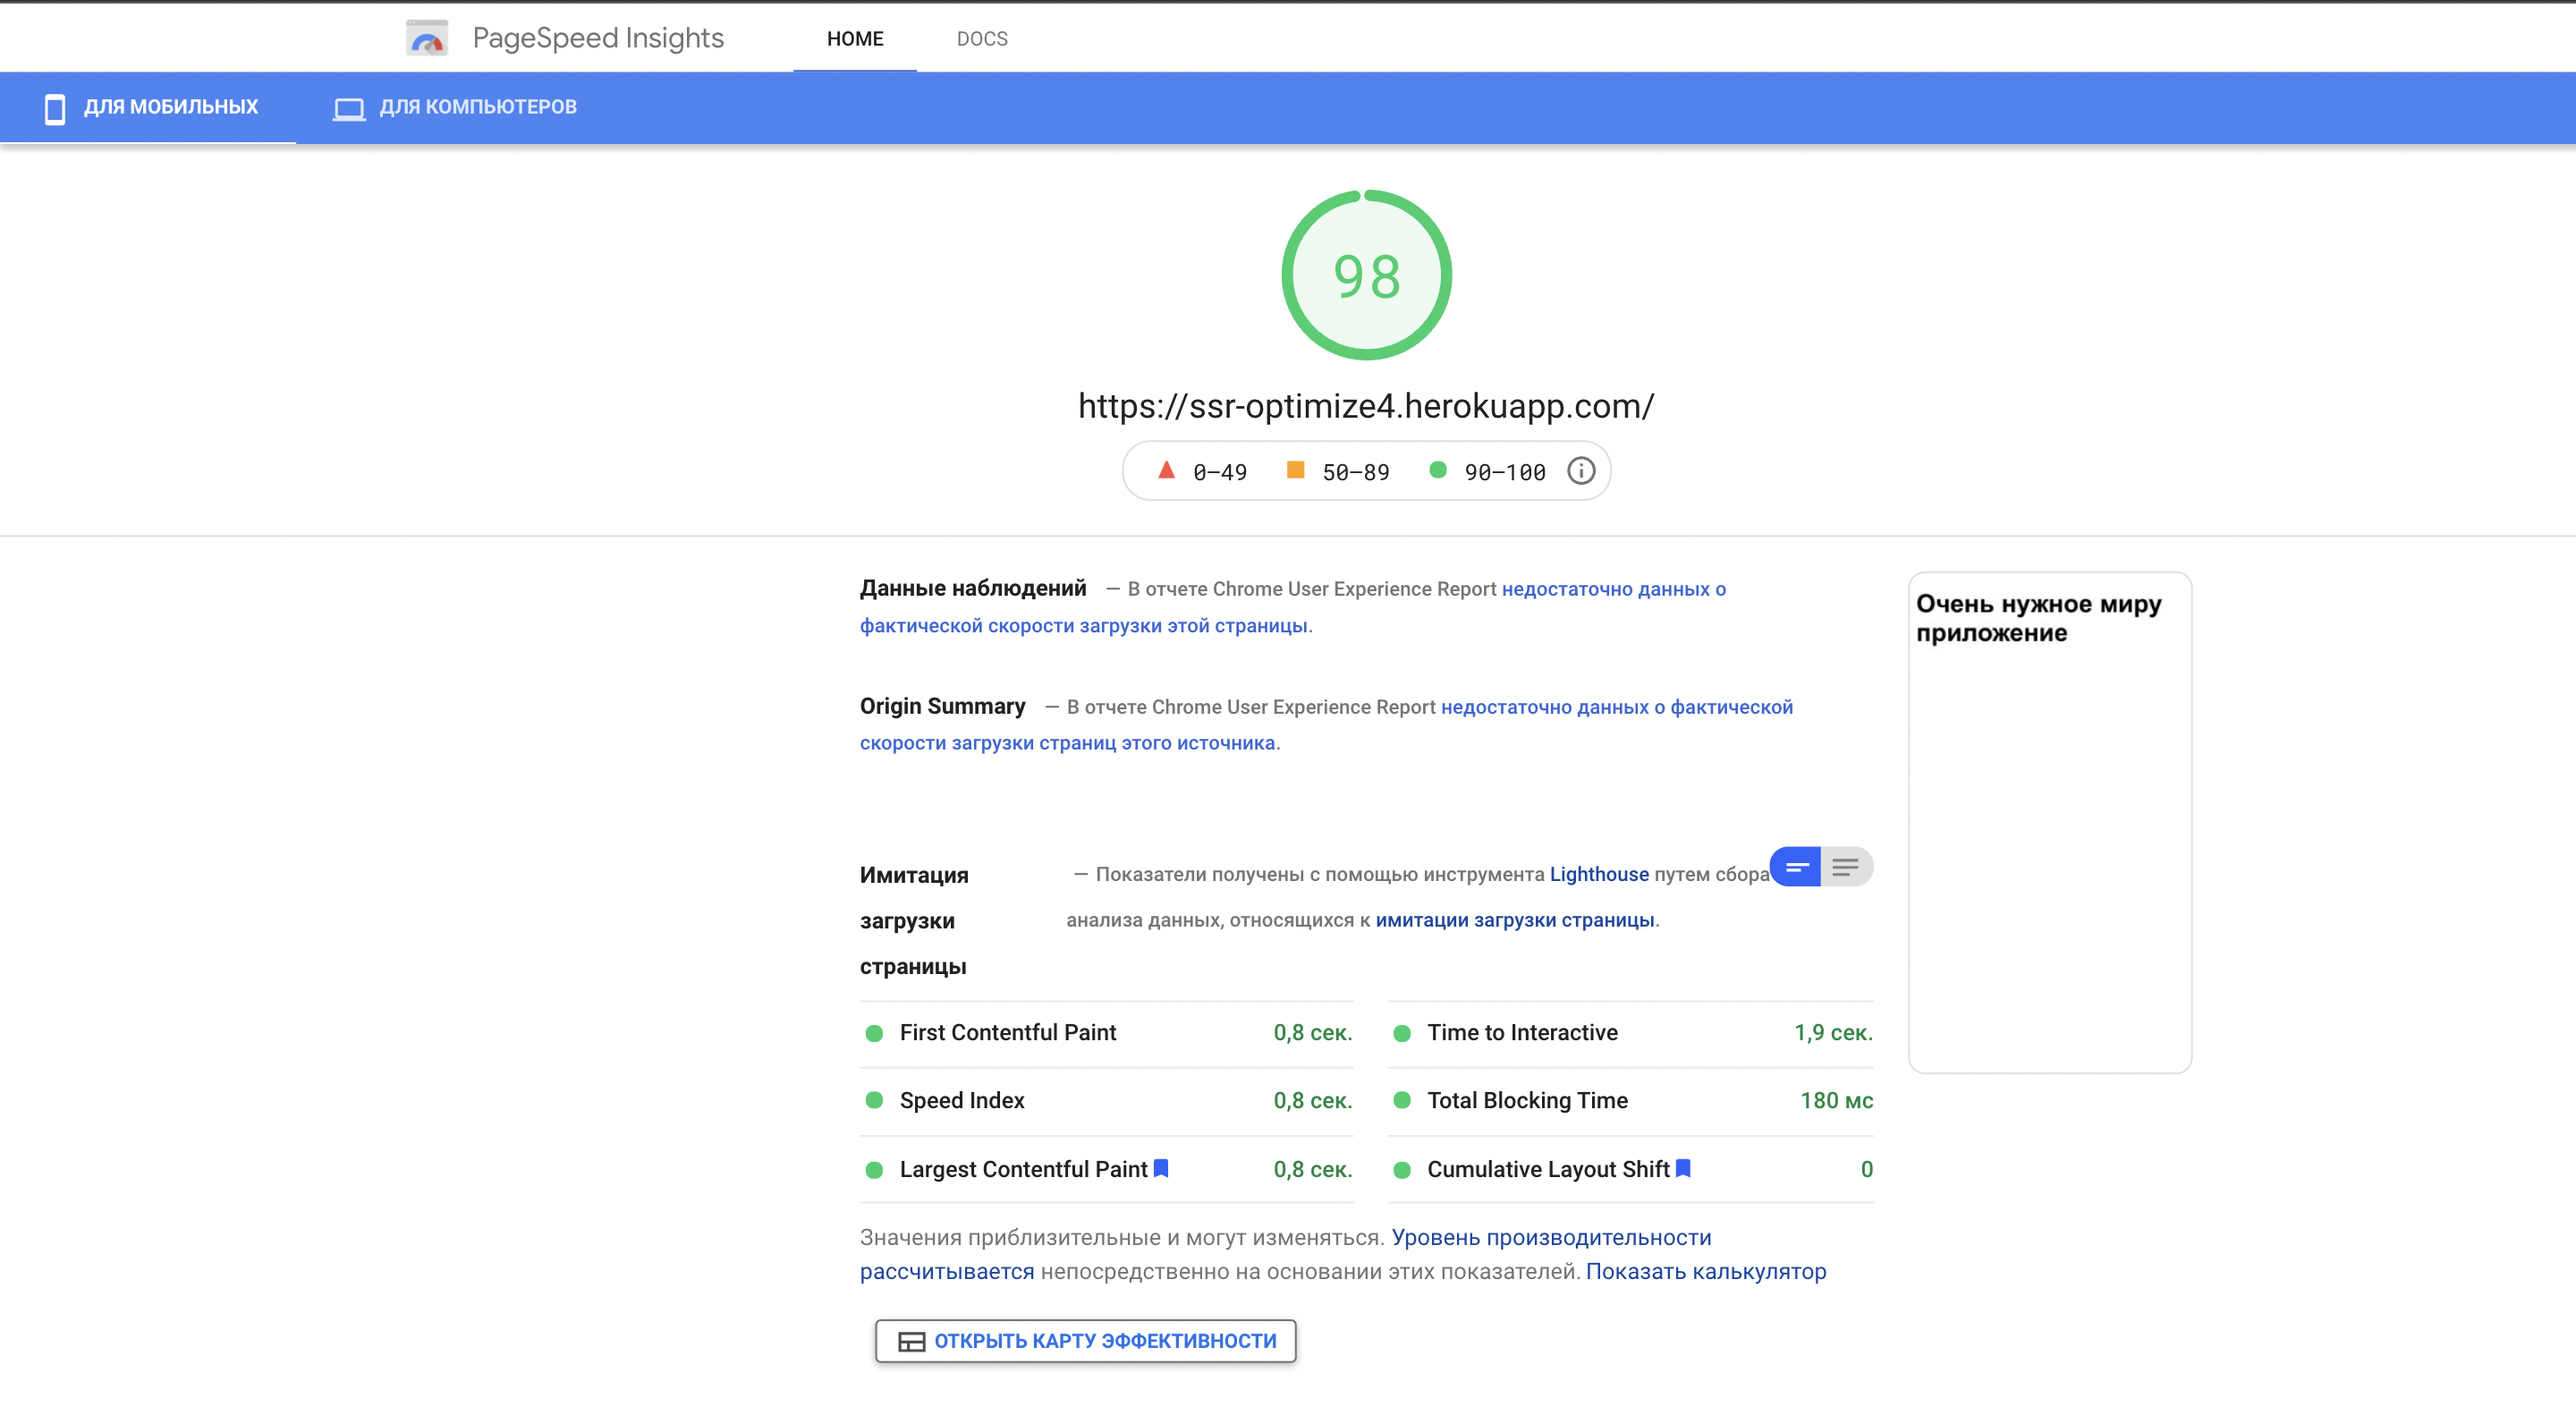
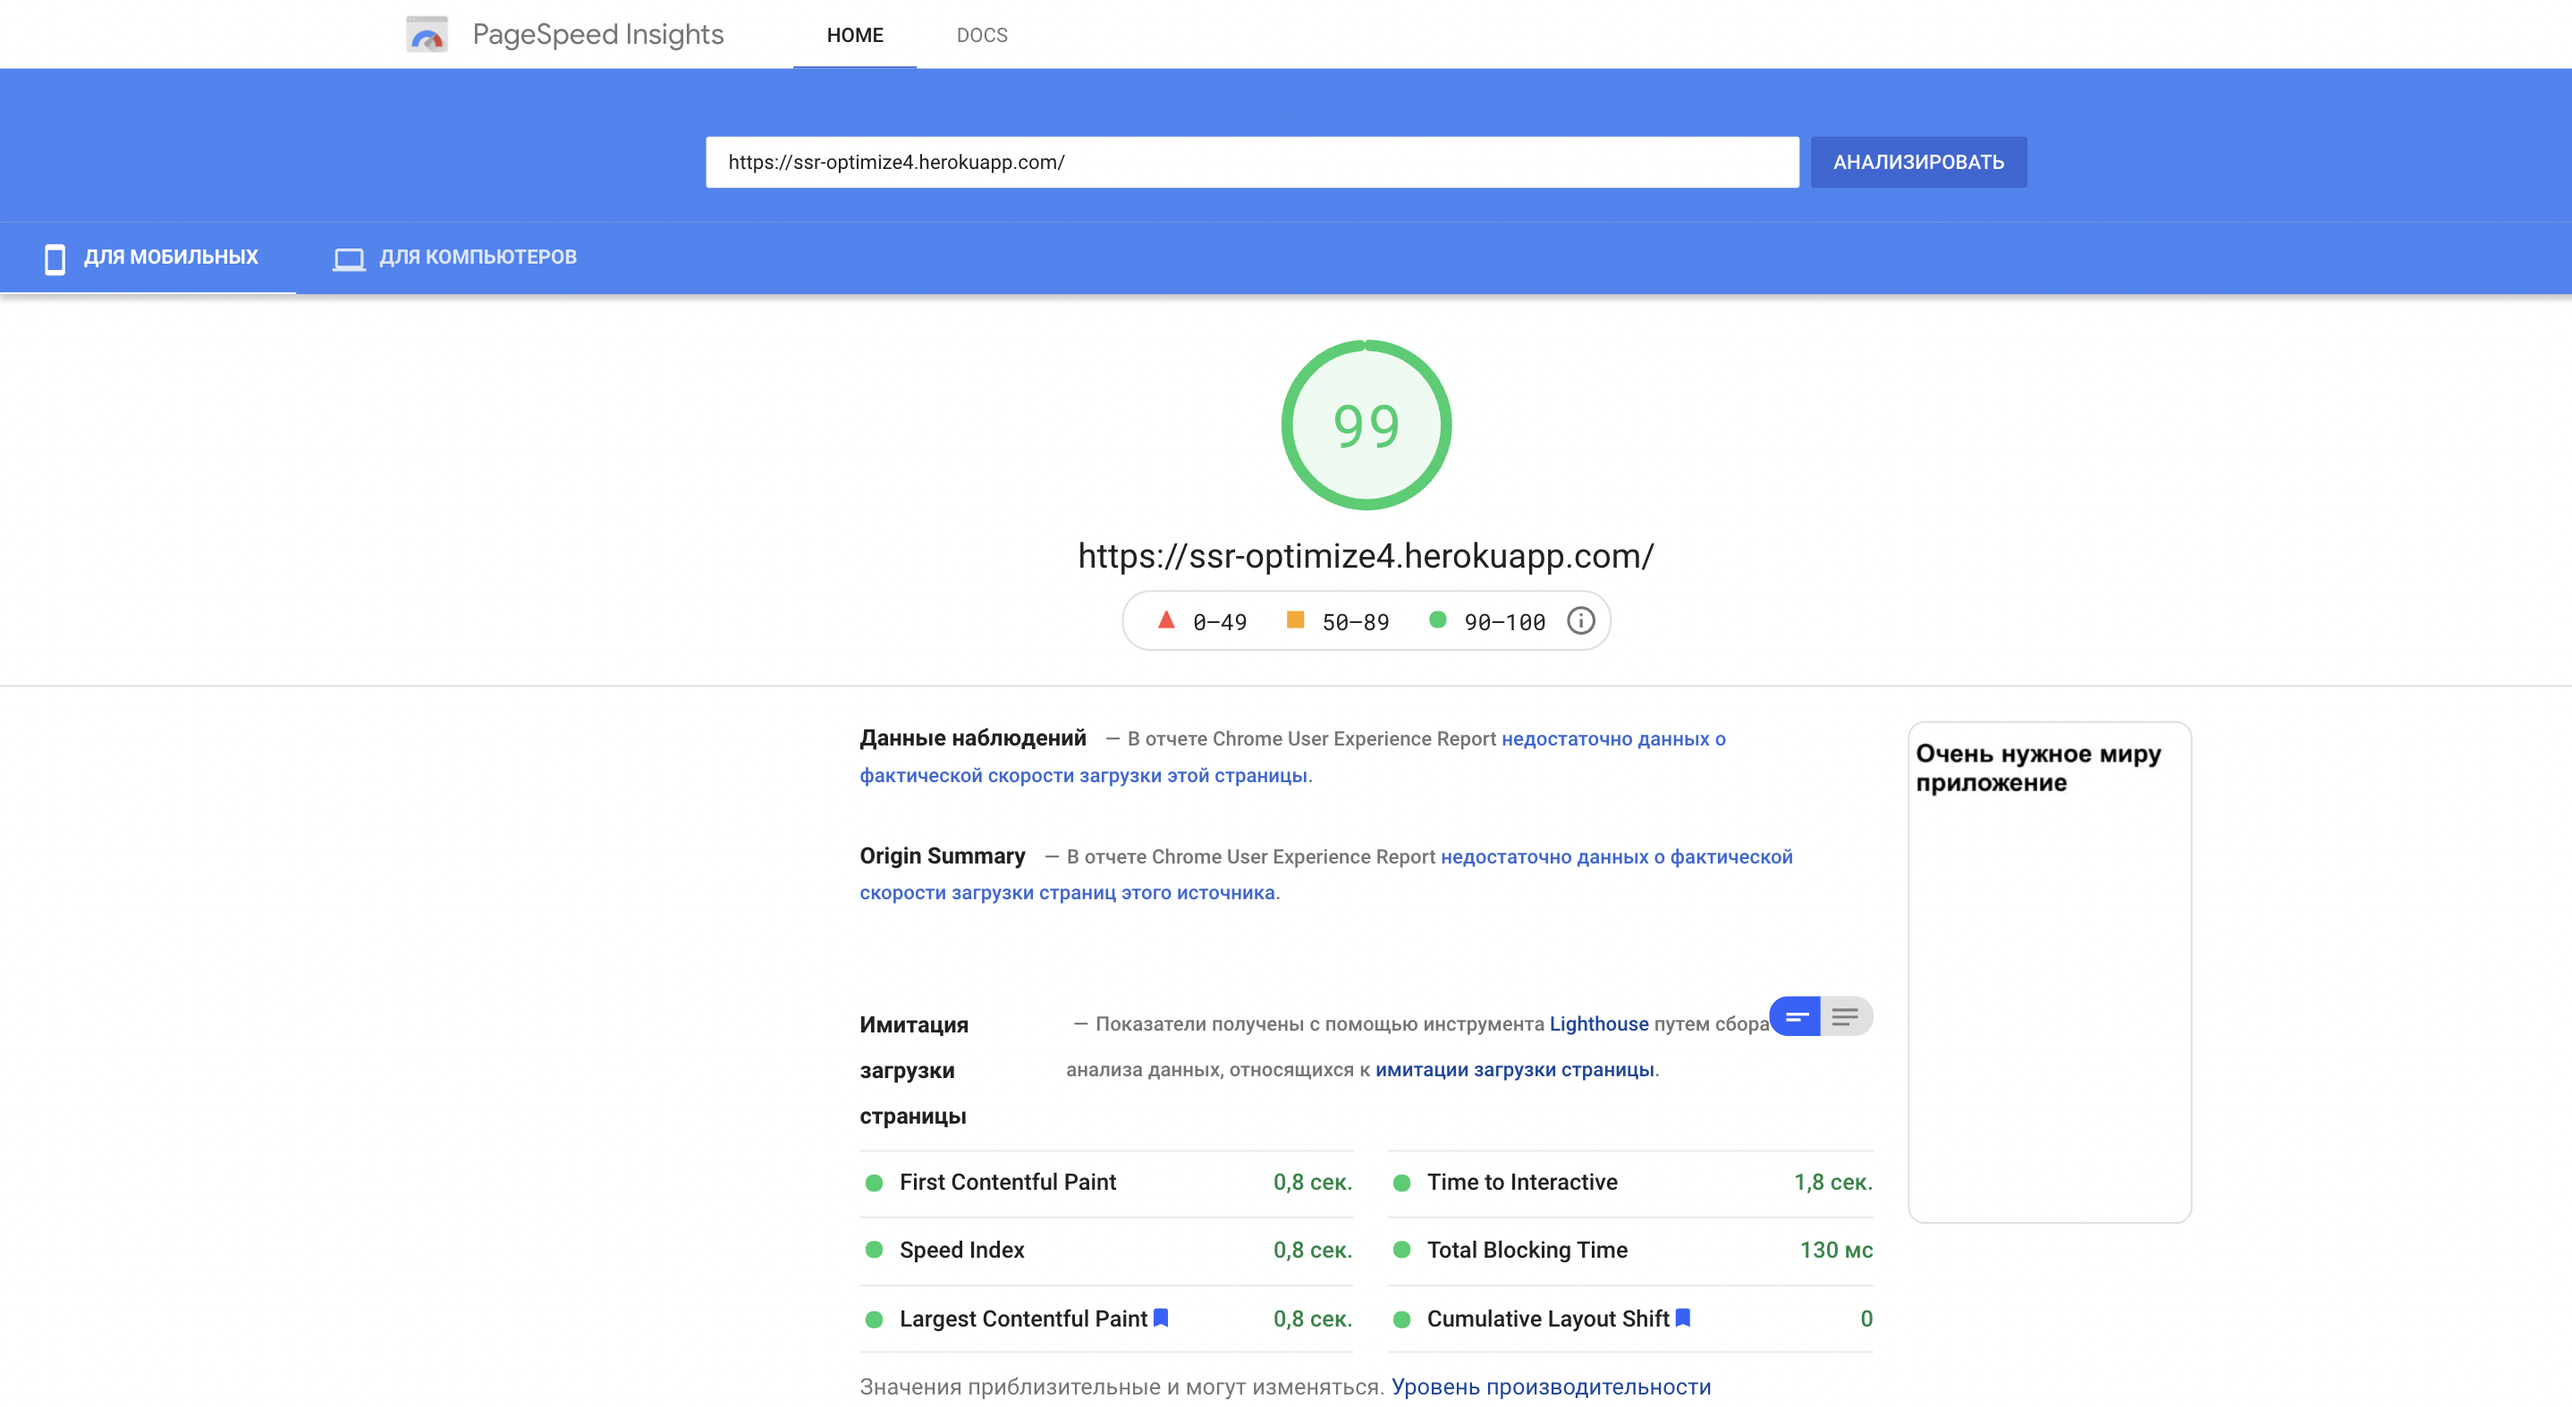
fix in readme

diff --git a/README.md b/README.md
@@ -153,10 +153,10 @@ Nuxt поддерживает браузеры начиная с IE9.
 
 > это не только nuxt такой расчудесный. [Статья о modern](https://philipwalton.com/articles/deploying-es2015-code-in-production-today/)
 
-Тестируем еще раз:
+[Деплоим](https://ssr-optimize4.herokuapp.com/). Тестируем еще раз:
 ![ps-s4](page-speed-results/state4.png)
 
-Ну вот, так-то лучше, только остались без UI либы.
+Ну вот, 99, так-то лучше, только остались без UI либы.
 
 ### Итоги инициализации
 
@@ -169,10 +169,26 @@ Nuxt поддерживает браузеры начиная с IE9.
 ## Что наше супер приложение делает
 
 Приложение представляет собой одну страницу из шапки и  10 секций 
-(я их просто скопипастил, чтобы не выдумывать). Каждая секция
-содержит запрос на бекенд, за 10 товарами и показываем 10 карточек с товарами. 
-Так же на сервере есть запрос за
-категориями (например, мы меню из них собрались строить), показ меню реализовывать не стал.
+(я их просто скопипастил, чтобы не выдумывать). 
+Каждая показываем 10 карточек с товарами. 
+Данные каждая секция запрашивает самостоятельно на бекенде 
+(через axios запрашиваем json, который лежит в static) в методе fetch.
+Так же на сервере (в nuxt server init) есть запрос за категориями,
+из которых будем строить меню.
+Респонсы взял у одного из крупнейших интернет-магазинов России.
+
+>Для тех кто не пользовался nuxt:
+> 
+>У компонента есть метод для получения данных fetch, 
+> который вызывается при первом рендере компонента 
+> (неважно на сервере он происходит или на клиенте). 
+> Если рендер происходит на сервере, 
+> то данные запрашиваются, компонент рендерится (вставляется в документ), 
+> на клиенте происходит гидротация этих данных.
+> 
+> Метод nuxtServerInit предназначен для инициализации сторы, 
+> вызывается только на сервере, получает данные, складывает их в стору,
+> на клиенте мы получаем предзаполненную стору.
 
 ## Первый запуск
 
